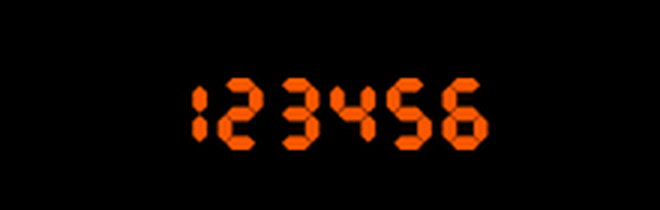
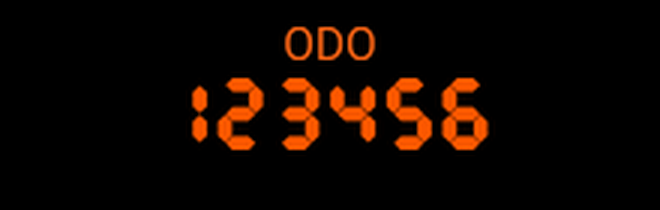
Toyota-style ODO/TRIP legend above the readout

Changed region(s): [[0.4242, 0.1143, 0.5758, 0.3143]]

diff --git a/tools/odo/seg7.py b/tools/odo/seg7.py
@@ -41,13 +41,33 @@ def field_text(kind,value):
     else:
         s=f'{value%1000:.1f}'                               # up to 999.9, centred the same way
     return s
-def draw_field(img,kind,value,rgb=ODO_RGB):
+# Legend ('ODO' / 'TRIP') in the Toyota LCD style (owner reference, 2026-10-16). Typeface: Roboto Regular, the closest
+# installed match to the traced Toyota 'ODO' legend (tools/odo/legend_extract.py; width ratio 1.01, ink ratio 1.00, IoU 0.78).
+# Cap height 0.47 x digit height and gap 0.24 x digit height, both measured off the Toyota ODO frame. Centred on the readout.
+# Colour: the gauge-light (night printing) orange, day and night.
+LEGEND=dict(font='/usr/share/fonts/truetype/roboto/unhinted/RobotoTTF/Roboto-Regular.ttf',cap_ratio=0.47,gap_ratio=0.24,
+            rgb=list(P['printing_orange']),text={'odo':'ODO','trip':'TRIP'})
+def render_legend(word,cap,ss=8):
+    from PIL import ImageFont
+    ft=ImageFont.truetype(LEGEND['font'],100*ss); top,bot=ft.getbbox('H')[1],ft.getbbox('H')[3]  # shared cap line + baseline
+    l,_,r,_=ft.getbbox(word); im=Image.new('L',(r-l+4*ss,bot-top),0)
+    ImageDraw.Draw(im).text((-l+2*ss,-top),word,font=ft,fill=255)
+    W=max(1,round(im.width*cap/im.height)); m=np.asarray(im.resize((W,cap),Image.LANCZOS)).astype(float)/255
+    xs=np.where(m.max(0)>0.02)[0]; return m[:,xs.min():xs.max()+1]
+def _blend(img,m,x0,y0,rgb):
+    h,w=m.shape; reg=img[y0:y0+h,x0:x0+w]; img[y0:y0+h,x0:x0+w]=reg*(1-m[...,None])+m[...,None]*np.array(rgb,float)
+def draw_field(img,kind,value,rgb=ODO_RGB,legend=True):
     m=render_text(field_text(kind,value),FIELD['h']); h,w=m.shape
-    x0=int(round(FIELD['xc']-w/2)); y0=int(round(FIELD['yc']-h/2))
-    reg=img[y0:y0+h,x0:x0+w]; img[y0:y0+h,x0:x0+w]=reg*(1-m[...,None])+m[...,None]*np.array(rgb,float)
+    x0=int(round(FIELD['xc']-w/2)); y0=int(round(FIELD['yc']-h/2)); _blend(img,m,x0,y0,rgb)
+    if legend:
+        cap=round(LEGEND['cap_ratio']*FIELD['h']); gap=round(LEGEND['gap_ratio']*FIELD['h'])
+        lm=render_legend(LEGEND['text'][kind],cap); _blend(img,lm,int(round(FIELD['xc']-lm.shape[1]/2)),y0-gap-cap,LEGEND['rgb'])
     return img
 if __name__=='__main__':
     for ch in '0123456789-':
         Image.fromarray((render_text(ch,64)*255).astype(np.uint8),'L').save(f'art/glyphs/seg7/{ch if ch!="-" else "minus"}_64.png')
-    json.dump(dict(GEOM=GEOM,FIELD=FIELD,color_rgb=ODO_RGB,segments=SEG,odo='up to 6 digits, no tenths, centred under RPMX1000',trip='up to 999.9, DP in the gap, centred under RPMX1000'),open('art/glyphs/seg7/seg7.json','w'),indent=1)
+    for k,wd in LEGEND['text'].items():
+        c=round(LEGEND['cap_ratio']*FIELD['h']); Image.fromarray((render_legend(wd,c)*255).astype(np.uint8),'L').save(f'art/glyphs/seg7/legend_{wd}.png')
+        Image.fromarray((render_legend(wd,64)*255).astype(np.uint8),'L').save(f'art/glyphs/seg7/legend_{wd}_64.png')
+    json.dump(dict(GEOM=GEOM,FIELD=FIELD,LEGEND=LEGEND,color_rgb=ODO_RGB,segments=SEG,odo='up to 6 digits, no tenths, centred under RPMX1000',trip='up to 999.9, DP in the gap, centred under RPMX1000'),open('art/glyphs/seg7/seg7.json','w'),indent=1)
     print('ODO colour',ODO_RGB)

diff --git a/tools/odo/legend_extract.py b/tools/odo/legend_extract.py
@@ -1,0 +1,22 @@
+"""Extract the Toyota LCD legends 'ODO' and 'TRIP' (owner reference photos, 2026-10-16) as alpha masks.
+Dark-on-amber LCD print -> darkness above local background, normalised, contrast-stretched, trimmed to ink bbox.
+ODO: Toyota how-to video frame (legend ~35 px tall). TRIP: Corolla E120 trip-reset video frame (~18 px tall, softer;
+it gets a stronger stretch so its stroke weight matches ODO)."""
+import numpy as np
+from PIL import Image, ImageFilter
+A='art/glyphs/seg7/'
+SRC={'ODO':(A+'ref_toyota_odo.jpg',(330,224,442,270),(0.30,0.75)),
+     'TRIP':(A+'ref_toyota_trip.jpg',(774,389,836,416),(0.30,0.70))}
+def extract(name,up=8):
+    f,box,(lo,hi)=SRC[name]
+    im=Image.open(f).convert('RGB').crop(box); W,H=im.size
+    im=im.resize((W*up,H*up),Image.BICUBIC)
+    a=np.asarray(im).astype(float); lum=a@[0.299,0.587,0.114]
+    bg=np.asarray(Image.fromarray(lum.astype(np.uint8)).filter(ImageFilter.MaxFilter(up*6+1)).filter(ImageFilter.GaussianBlur(up*3))).astype(float)
+    dk=np.clip(bg-lum,0,None); dk/=np.percentile(dk,99.7)
+    m=np.clip((dk-lo)/(hi-lo),0,1)
+    ys,xs=np.where(m>0.5); m=np.pad(m,up)[ys.min():ys.max()+2*up+1,xs.min():xs.max()+2*up+1]
+    return m,(ys.max()-ys.min()+1)   # mask, cap height in upsampled px
+if __name__=='__main__':
+    for n in SRC:
+        m,ch=extract(n); Image.fromarray((m*255).astype(np.uint8)).save(f'art/glyphs/seg7/ref_toyota_{n}_trace.png'); print(n,m.shape,ch)

diff --git a/docs/PLAN.md b/docs/PLAN.md
@@ -23,7 +23,7 @@ Status: Phase 0 (discovery). Prepared 2026-10-12. Rev 2: decisions log added (se
 | 2026-10-14 | The cluster can't be scanned non-destructively. v2 faces and overlay rebuilt from needle-free photos with geometric rectification (section 4.2d). |
 | 2026-10-14 | Frame leveled: rotated 2.17° CCW. Printed text (RPMX1000, FUEL DOOR, MPH, km/h, TYPE AC, MI) measured 2.05–2.30° clockwise; it now reads 0.0°. Dial sweeps are within 0.5° of symmetric about vertical. Tach 0 tick rebuilt from the 1000 rpm tick (the knob post hid its end); the stop-pin mask by the 8 was tightened. |
 | 2026-10-14 | Odometer goes digital (owner): the drum module is too large to keep (rear photos IMG_7579/7580/7582). Odometer is drawn in the bottom of the speedo face, trip meter where FUEL DOOR is printed on the tach. Exact stock text placement is not required. Speedo must stay stock size; the tach may shrink slightly. The white rear body will be trimmed to take the screens. |
-| 2026-10-16 | Odometer/trip readout (owner): a 7-segment LCD readout styled after the late-90s Dodge Dakota odometer: upright (no slant), bold segments, hairline gaps. Digit height 24 px on the 480 tach art (the old FUEL DOOR lettering height of 21 px, +15 %, owner revision); both readouts are centred directly under RPMX1000 (x centre 240) at the old FUEL DOOR line (y centre 408). Odometer: 6 digits, no tenths. Trip: 999.9, with the decimal point in the gap between cells. Colour: the night printing orange at full saturation, RGB 255,89,0, the same day and night. Trip key: tap toggles ODO/TRIP; hold 2 s resets the trip only (never the odometer), switching to TRIP if ODO is showing so 0.0 is visible. This replaces the separate trip-reset key; on the membrane pad it is key A (Blink key 4). Files: `tools/odo/seg7.py`, `tools/odo/odo_mock.py`, `art/glyphs/seg7/`, `art/preview/odo_trip_preview.png`. |
+| 2026-10-16 | Odometer/trip readout (owner): a 7-segment LCD readout styled after the late-90s Dodge Dakota odometer: upright (no slant), bold segments, hairline gaps. Digit height 24 px on the 480 tach art (the old FUEL DOOR lettering height of 21 px, +15 %, owner revision); both readouts are centred directly under RPMX1000 (x centre 240) at the old FUEL DOOR line (y centre 408). Odometer: 6 digits, no tenths. Trip: 999.9, with the decimal point in the gap between cells. Colour: the night printing orange at full saturation, RGB 255,89,0, the same day and night. Legend (owner, 2026-10-16): 'ODO' / 'TRIP' in the Toyota LCD style (reference frames `art/glyphs/seg7/ref_toyota_odo.jpg`, `ref_toyota_trip.jpg`; traces via `tools/odo/legend_extract.py`), set in Roboto Regular, the closest installed match to the traced Toyota ODO (width ratio 1.01, ink ratio 1.00, IoU 0.78; the TRIP frame is ~18 px and tilted ~10 degrees, so it was a visual check only). Cap height 11 px (0.47 x digit height) with a 6 px gap (0.24 x), both ratios measured off the Toyota ODO frame; centred over the readout; gauge-light orange RGB 250,100,20 day and night. ODO shows with the odometer, TRIP with the trip. The boost sub-dial clears it by about 30 px. Trip key: tap toggles ODO/TRIP; hold 2 s resets the trip only (never the odometer), switching to TRIP if ODO is showing so 0.0 is visible. This replaces the separate trip-reset key; on the membrane pad it is key A (Blink key 4). Files: `tools/odo/seg7.py`, `tools/odo/odo_mock.py`, `art/glyphs/seg7/`, `art/preview/odo_trip_preview.png`. |
 | 2026-10-16 | FUEL DOOR (owner): the words FUEL DOOR are removed from every tach face (that area becomes the trip/odometer readout). The arrow moves to the fuel face beside the pump icon at 3/4 of the pump height (40 x 38 px), with the same 1.08 mm gap it had after "DOOR"; it sits 2 mm inside the hole. Not on the ethanol face. The pump icon and arrow form a separate A8 layer (`art/faces/fuel_icon_A8.png`, base face `art/faces/fuel_base_480.png`) so the firmware can turn both yellow (placeholder RGB 255,200,0) below a low-fuel threshold still to be decided. Fuel face only, never the ethanol face; the yellow applies day and night. Stock sources are kept in `art/faces/source/`. Files: `tools/alt-faces/fuel_door_arrow.py`, `art/faces/fuel_icon.json`, `art/preview/fuel_lowfuel_preview.png`. |
 | 2026-10-16 | Boost alternate tach face, MOCK (daylight only): a boost sub-dial from the owner's Lamco TURBO gauge photo (`art/boost/ref_IMG_7566.jpg`), MPa -0.10 to +0.15, 26 ticks 12 deg apart, -0.10 at 151.1 deg. The ticks are redrawn and the labels lifted from the photo; the hidden 0 is rebuilt from the 0 of ".05"; no logo, screws or outer ring. White on the same black plane, concentric with the tach, tick outer radius 107 px (half the tach's 214 px). The boost needle is the tach master needle scaled to 0.915 of the sub-dial radius, drawn under the tach needle so its hub is hidden. Owner 2026-10-16: TURBO removed from the sub-dial, and RPMX1000 removed from the tach face in boost mode. Files: `tools/alt-faces/boost_face.py`, `tools/alt-faces/tach_boost_mock.py`, `art/boost/`, `art/preview/tach_boost_preview.png`. |
 | 2026-10-14 | Oil-temp alternate for the temp gauge: the coolant icon (ISO 7000-0246) is replaced by ISO 2575 F.05 "Engine oil temperature" (ISO 7000-2426), extracted from the ISO 2575:2010 Annex F table, emboldened toward the stock icon's stroke weight, and placed 74 x 54 px at the coolant icon position (44 px inside the hole). C/H, the red hot tick and the blue cold tick are unchanged; only the firmware calibration differs. Files: `tools/alt-faces/oil_temp_face.py`, `art/faces/temp_oil_480.png`, `art/preview/temp_oil_preview.png`. |
